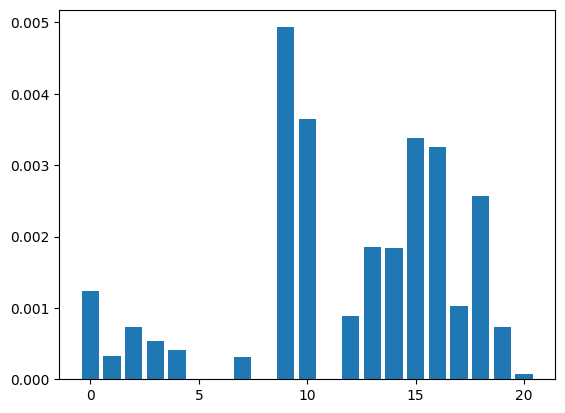
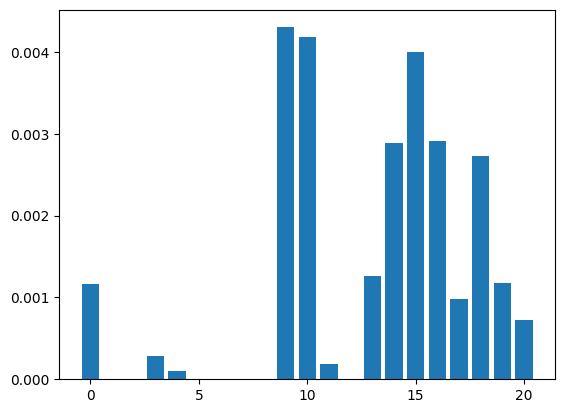
xgboost cv complete

diff --git a/process-ultimate.py b/process-ultimate.py
@@ -3,33 +3,29 @@ import os
 import glob
 import pandas as pd
 import numpy as np
-# import missingno as msno
-# import seaborn as sns
-# import matplotlib.pyplot as plt
-from sklearn.preprocessing import LabelEncoder
-from sklearn.preprocessing import OneHotEncoder
-from sklearn.preprocessing import MinMaxScaler
+import missingno as msno
+import seaborn as sns
+import matplotlib.pyplot as plt
 from sklearn.model_selection import train_test_split
 from sklearn.feature_selection import SelectKBest, chi2, mutual_info_classif
-from sklearn.ensemble import RandomForestClassifier
-from sklearn.model_selection import RepeatedStratifiedKFold
-from sklearn.model_selection import GridSearchCV
-from sklearn.model_selection import RandomizedSearchCV
-from sklearn.metrics import mean_squared_error, confusion_matrix
-from collections import Counter
 from imblearn.under_sampling import OneSidedSelection
 from imblearn.under_sampling import NeighbourhoodCleaningRule
 from imblearn.over_sampling import SMOTEN
+from collections import Counter
+from sklearn.model_selection import RepeatedStratifiedKFold
+from sklearn.model_selection import GridSearchCV
+from sklearn.model_selection import RandomizedSearchCV
 from pprint import pprint
-# import xgboost as xgb
-###KNN & Logistic & Complement NB & Decision Tree Testing
 from sklearn.neighbors import KNeighborsClassifier
 from sklearn.linear_model import LogisticRegression
-from sklearn.metrics import mean_squared_error, confusion_matrix
 from sklearn.tree import DecisionTreeClassifier
 from sklearn.naive_bayes import ComplementNB
 from sklearn.ensemble import RandomForestClassifier
+import xgboost as xgb
+from sklearn.metrics import mean_squared_error, confusion_matrix
 
+# Setting Random Seed
+seed = 0
 
 # Concatenating Subsets
 # print("Concatenating subsets...")
@@ -44,14 +40,14 @@ print("Loading data...")
 raw_df = pd.read_csv("./data/raw_concatenated.csv")
 
 
-# # Analyzing NA Distribution & Count NAs
-# print("Analyzing NA values distribution...")
-# na_chart = msno.matrix(raw_df)
-# na_chart_copy = na_chart.get_figure()
-# na_chart_copy.savefig('output/na_chart.png', bbox_inches = 'tight')
-# plt.close()
-# # print(raw_df.shape)
-# # print(raw_df.isnull().sum())
+# Analyzing NA Distribution & Count NAs
+print("Analyzing NA values distribution...")
+na_chart = msno.matrix(raw_df)
+na_chart_copy = na_chart.get_figure()
+na_chart_copy.savefig('output/na_chart.png', bbox_inches = 'tight')
+plt.close()
+# print(raw_df.shape)
+# print(raw_df.isnull().sum())
 
 
 # Subsetting Columns
@@ -110,38 +106,28 @@ raw_df_full.dropna(inplace=True)
 string_col_list_1 = raw_df.drop(columns=['high_risk_interactions']).columns
 raw_df_full[string_col_list_1] = raw_df_full[string_col_list_1].astype(int)
 # raw_df_full[string_col_list_1] = raw_df_full[string_col_list_1].astype("category")
+# raw_df_full[string_col_list_1] = pd.to_numeric(raw_df_full[string_col_list_1], downcast='int')
+# if you already have numeric dtypes (int8|16|32|64,float64,boolean), then you can use astype(int)
+# astype(int) doesn't handle string/objects. In that case, use to_numeric() instead
 
 
-# # Analyzing Distribution of Class Labels
-# print("Analyzing distribution of class labels...")
-# #print(raw_df['covid19_test_results'].value_counts())
-# test_histo = raw_df['covid19_test_results'].hist()
-# test_histo_copy = test_histo.get_figure()
-# test_histo_copy.savefig('output/test_histo.png', bbox_inches = 'tight')
-# plt.close()
+# Analyzing Distribution of Class Labels
+print("Analyzing distribution of class labels...")
+#print(raw_df['covid19_test_results'].value_counts())
+test_histo = raw_df['covid19_test_results'].hist()
+test_histo_copy = test_histo.get_figure()
+test_histo_copy.savefig('output/test_histo.png', bbox_inches = 'tight')
+plt.close()
 
 
 # Train/Validation Split
 print("Train/Validation Split...")
-X_train_boost, X_validation_boost, y_train_boost, y_validation_boost = train_test_split(raw_df.drop(['covid19_test_results'], axis=1), 
-raw_df['covid19_test_results'], test_size=0.20, random_state=0, stratify=raw_df['covid19_test_results'])
+# X_train_boost, X_validation_boost, y_train_boost, y_validation_boost = train_test_split(raw_df.drop(['covid19_test_results'], axis=1), 
+# raw_df['covid19_test_results'], test_size=0.20, random_state=seed, stratify=raw_df['covid19_test_results'])
 X_train_full, X_validation_full, y_train_full, y_validation_full = train_test_split(raw_df_full.drop(['covid19_test_results'], axis=1), 
-raw_df_full['covid19_test_results'], test_size=0.20, random_state=0, stratify=raw_df_full['covid19_test_results'])
+raw_df_full['covid19_test_results'], test_size=0.20, random_state=seed, stratify=raw_df_full['covid19_test_results'])
 
-
-# # Converting to Numerical for Resampling
-# print("Converting to numerical for resampling...")
-# X_train_full = pd.to_numeric(X_train_full, downcast='int')
-# y_train_full = pd.to_numeric(y_train_full, downcast='int')
-# print(X_train_full.dtypes)
-# print(y_train_full.dtypes)
-
-
-# # Converting to int for Feature Selection
-# print("Converting to int for feature selection...")
-# X_train_full = X_train_full.astype(int)
-# y_train_full = y_train_full.astype(int)
-
+print(X_train_full.columns)
 
 # Feature Selection
 print("Feature selection...")
@@ -191,17 +177,17 @@ def mi_select_no_graph():
 	mi_dict = sorted(mi_dict, key=mi_dict.get, reverse = True)
 	return mi_dict
 # two calls below are only used to create graphs. Actual repeated checking is done below
-# chi2_dict = chi2_select()
-# mi_dict = mi_select()
-# feature_set = set(mi_select_no_graph()[:18])
-# for rep_mi in range(17, 11, -1):
-# 	if rep_mi < 15:
-# 		temp_feature_set = set(mi_select_no_graph()[:15])
-# 		feature_set.intersection_update(temp_feature_set)
-# 	else:
-# 		temp_feature_set = set(mi_select_no_graph()[:rep_mi])
-# 		feature_set.intersection_update(temp_feature_set)
-feature_set = [9, 10, 13, 14, 15, 16, 18, 19, 20]
+chi2_dict = chi2_select()
+mi_dict = mi_select()
+feature_set = set(mi_select_no_graph()[:20])
+for rep_mi in range(19, 13, -1):
+	if rep_mi < 15:
+		temp_feature_set = set(mi_select_no_graph()[:15])
+		feature_set.intersection_update(temp_feature_set)
+	else:
+		temp_feature_set = set(mi_select_no_graph()[:rep_mi])
+		feature_set.intersection_update(temp_feature_set)
+# feature_set = [0, 9, 10, 13, 14, 15, 16, 17, 18, 19]
 # ['high_risk_exposure_occupation', 'diabetes', 'chd', 'htn', 'cancer',
 #        'asthma', 'copd', 'autoimmune_dis', 'smoker', 'cough', 'fever', 'sob',
 #        'diarrhea', 'fatigue', 'headache', 'loss_of_smell', 'loss_of_taste',
@@ -212,6 +198,7 @@ for elem in feature_set:
 	fs_colnames.append(X_train_full_colnames[elem])
 X_train_full_fs = X_train_full[fs_colnames]
 X_validation_full_fs = X_validation_full[fs_colnames]
+print(X_train_full_fs.columns)
 # can't use SelectKBest to transform, because you still want column names. SelectKBest returns a np array,
 # and transforming to pandas requires you to specify column names. You don't know which ones are which 
 # unless you manually look
@@ -236,7 +223,7 @@ print("Before oversampling, the class distribution is:")
 print(counter)
 class_dist = y_train_full.value_counts()
 desired_ratio = {0: class_dist[0], 1: class_dist[0]//5}
-oversample_smoten = SMOTEN(sampling_strategy=desired_ratio, random_state=0, n_jobs=-1)
+oversample_smoten = SMOTEN(sampling_strategy=desired_ratio, random_state=seed, n_jobs=-1)
 X_train_full_fs, y_train_full = oversample_smoten.fit_resample(X_train_full_fs, y_train_full)
 counter = Counter(y_train_full)
 print("After oversampling, the class distribution is:")
@@ -246,7 +233,7 @@ print(counter)
 # Undersample with One-Sided Selection (Tomek Links + Condensed Nearest Neighbor)
 print("Undersampling...")
 # n_seeds_S is the number of majority class to be added to set C, which is then used as a reference for a kNN on the remaining majority samples not in set C
-undersample_oss = OneSidedSelection(n_neighbors=1, n_seeds_S=counter[1], n_jobs=-1, random_state=0)
+undersample_oss = OneSidedSelection(n_neighbors=1, n_seeds_S=counter[1], n_jobs=-1, random_state=seed)
 X_train_full_fs, y_train_full = undersample_oss.fit_resample(X_train_full_fs, y_train_full)
 counter = Counter(y_train_full)
 print("After OSS undersampling, the class distribution is:")
@@ -256,79 +243,106 @@ X_train_full_fs, y_train_full = undersample_ncr.fit_resample(X_train_full_fs, y_
 counter = Counter(y_train_full)
 print("After NCR undersampling, the class distribution is:")
 print(counter)
+'''
 
 # # make a small set
 # train_temp = X_train_full_fs
 # train_temp['target'] = y_train_full
 # X_train_temp, X_validation_temp, y_train_temp, y_validation_temp = train_test_split(train_temp.drop(['target'], axis=1), 
-# train_temp['target'], test_size=0.003, random_state=0, stratify=train_temp['target'])
+# train_temp['target'], test_size=0.003, random_state=seed, stratify=train_temp['target'])
 # X_train_full_fs = X_validation_temp
 # y_train_full = y_validation_temp
 
 # Saving to Local
-print("Saving to Local...")
-X_train_full_fs.to_csv("./data/X_train_big.csv", index=False)
-X_validation_full.to_csv("./data/X_validation_big.csv", index=False)
-y_train_full.to_csv("./data/Y_train_big.csv", index=False)
-y_validation_full.to_csv("./data/Y_validation_big.csv", index=False)
-
+# print("Saving to Local in csv...")
+# X_train_full_fs.to_csv("./data/X_train_big.csv", index=False)
+# X_validation_full.to_csv("./data/X_validation_big.csv", index=False)
+# y_train_full.to_csv("./data/Y_train_big.csv", index=False)
+# y_validation_full.to_csv("./data/Y_validation_big.csv", index=False)
+#---------------------
 # X_train_full_fs.to_pickle("./data/X_train.pkl")
 # X_validation_full.to_pickle("./data/X_validation.pkl")
 # y_train_full.to_pickle("./data/Y_train.pkl")
 # y_validation_full.to_pickle("./data/Y_validation.pkl")
-'''
-
 
 # Read from Local
 print("Reading from local...")
 X_train_full_fs = pd.read_csv("./data/X_train.csv")
-X_train_full_fs = X_train_full_fs.astype(int)
 X_validation_full = pd.read_csv("./data/X_validation.csv")
-X_validation_full = X_validation_full.astype(int)
 y_train_full = pd.read_csv("./data/Y_train.csv")
-y_train_full = y_train_full.astype(int)
 y_validation_full = pd.read_csv("./data/Y_validation.csv")
+#-----------------------
+X_train_full_fs = X_train_full_fs.astype(int)
+X_validation_full = X_validation_full.astype(int)
+y_train_full = y_train_full.astype(int)
 y_validation_full = y_validation_full.astype(int)
 
 
-# Random Search CV
-print("Random Search CV...")
-model = RandomForestClassifier(n_jobs=-1)
+# Random Forest Random Search CV
+print("RF Random Search CV...")
+rf_model = RandomForestClassifier()
 # repeated KFold repeats a single KFold process for n_repeats number of times
 # on each repeat, the KFolds are partitioned randomly 
-cv = RepeatedStratifiedKFold(n_splits=5, n_repeats=3, random_state=0)
+rf_cv = RepeatedStratifiedKFold(n_splits=4, n_repeats=3, random_state=seed)
 # space defines the search space of your hyperparameters of interest
-space = dict()
+rf_space = dict()
 # whatever you're interested in tuning, add it to the search space as a dictionary item
-space['n_estimators'] = [int(x) for x in np.linspace(start = 200, stop = 2000, num = 10)]
-space['max_features'] = ['auto', 'sqrt']
-my_depth = [int(x) for x in np.linspace(10, 110, num = 11)]
+rf_space['n_estimators'] = [int(x) for x in np.linspace(start = 200, stop = 1500, num = 10)]
+rf_space['max_features'] = ['auto', 'sqrt']
+my_depth = [int(x) for x in np.linspace(10, 60, num = 11)]
 my_depth.append(None)
-space['max_depth'] = my_depth
-space['min_samples_split'] = [2, 5, 10]
-space['min_samples_leaf'] = [1, 2, 4]
-space['bootstrap'] = [True, False]
+rf_space['max_depth'] = my_depth
+rf_space['min_samples_split'] = [2, 5, 10]
+rf_space['min_samples_leaf'] = [1, 2, 4]
+rf_space['bootstrap'] = [True, False]
+rf_space['n_jobs'] = [-1]
 # a total of 4320 settings, calculated by multiplying the number of elements in each of the parameters
-pprint(space)
+pprint(rf_space)
 # define a scoring that suits the problem of interest
 # randomized search CV runs for n_iter number of times, each time with a set of parameters randomly picked from the search space defined earlier
 # (or that the set of parameter setting tried by the algorithm is given by n_iter). Each set of parameters is a random sample from the grid/search space
 # since we're ysing repeated k folds, each set of parameters is cross validated for n_repeats number of times (defined in cv), and each time it is
 # a KFold cross validation
-search = RandomizedSearchCV(estimator=model, param_distributions=space, n_iter=10, scoring='f1_weighted', n_jobs=-1, cv=cv, random_state=0)
+rf_search = RandomizedSearchCV(estimator=rf_model, param_distributions=rf_space, n_iter=500, scoring='f1_weighted', n_jobs=-1, cv=rf_cv, random_state=seed)
 # after everything is defined, fit the random search CV to training data to initiate the random search cv process
 # the output would 
 s_time = time.perf_counter()
-random_result = search.fit(X_train_full_fs, y_train_full)
+rf_result = rf_search.fit(X_train_full_fs, y_train_full)
 f_time = time.perf_counter()
 print('random search took: ' + str(f_time - s_time) + ' seconds')
-print('Best Score: %s' % random_result.best_score_)
-print('Best Hyperparameters: %s' % random_result.best_params_)
+print('Best Score: %s' % rf_result.best_score_)
+print('Best Hyperparameters: %s' % rf_result.best_params_)
 # code be prints the parameters currently in use by a model
 # print('Parameters currently in use:\n')
 # pprint(rf.get_params())
-random_best_params = random_result.best_params_
+dict_to_txt(rf_result.best_params_, "rf_best_params")
 
+
+# XGBoost Random Search CV
+xgb_model = xgb.XGBClassifier()
+xgb_cv = RepeatedStratifiedKFold(n_splits=4, n_repeats=3, random_state=seed)
+xgb_space = dict()
+# whatever you're interested in tuning, add it to the search space as a dictionary item
+xgb_space['eta'] = [0.05, 0.10, 0.15, 0.20, 0.25, 0.30]
+my_depth1 = [3, 4, 5, 6, 8, 10, 12]
+my_depth1.append(None)
+xgb_space['max_depth'] = my_depth1
+xgb_space['min_child_weight'] = [1, 3, 4, 5]    #imbalanced class, leaf nodes can have smaller size groups
+xgb_space["gamma"] = [0, 0.1, 0.3, 0.5]
+xgb_space["colsample_bytree"] = [0.5, 0.6, 0.7, 0.8]
+xgb_space["scale_pos_weight"] = [5]
+pprint(xgb_space)
+xgb_search = RandomizedSearchCV(estimator=xgb_model, param_distributions=xgb_space, n_iter=500, scoring='f1_weighted', n_jobs=-1, cv=xgb_cv, random_state=seed)
+s1_time = time.perf_counter()
+xgb_result = xgb_search.fit(X_train_full_fs, y_train_full)
+f1_time = time.perf_counter()
+print('random search took: ' + str(f1_time - s1_time) + ' seconds')
+print('Best Score: %s' % xgb_result.best_score_)
+print('Best Hyperparameters: %s' % xgb_result.best_params_)
+# code be prints the parameters currently in use by a model
+# print('Parameters currently in use:\n')
+# pprint(rf.get_params())
+dict_to_txt(xgb_result.best_params_, "xgb_best_params")
 
 
 exit()
@@ -339,18 +353,11 @@ print("Concentrated Grid Search CV from Random Search CV results...")
 # e.g. best min_sample_leaf values is 4, check 3 and 5 in grid search
 # grid search searches every possible combination of parameter values that you specified
 grid_space = {}
-grid_search = GridSearchCV(estimator=model, param_distributions=grid_space, n_iter=500, scoring='f1_weighted', n_jobs=-1, cv=cv, random_state=0)
+grid_search = GridSearchCV(estimator=rf_model, param_distributions=grid_space, n_iter=500, scoring='f1_weighted', n_jobs=-1, cv=rf_cv, random_state=seed)
 grid_result = grid_search.fit(X_train_full_fs, y_train_full)
 print('Best Score: %s' % grid_result.best_score_)
 print('Best Hyperparameters: %s' % grid_result.best_params_)
 best_params = grid_result.best_params_
-
-
-
-
-
-
-
 
 
 
